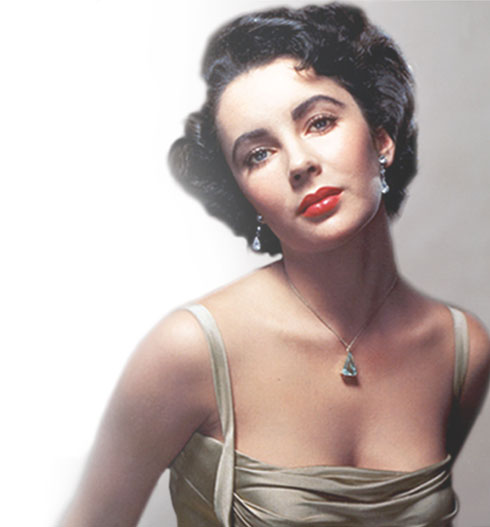
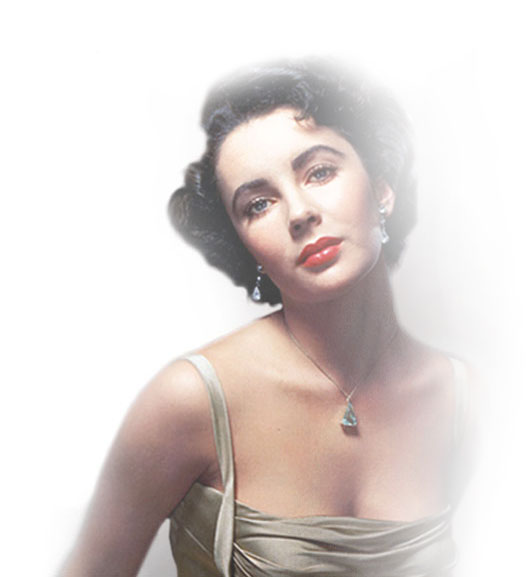
Added link to Twitter page. Altered follow section. Changed Liz's image.

diff --git a/sab/templates/donate.html b/sab/templates/donate.html
@@ -54,8 +54,11 @@
 <div id="rightside">
   <div class="sabpanel">
     <h2>Since they're going to show up anyway, we hope they stay as long as possible.</h2>
-    <p>For every hour WBC spends protesting, more money is going to a great foundation! During the service, we'll be sending out live tweets with the amount of money they've raised.</p>
-    <iframe src="http://www.facebook.com/plugins/likebox.php?href=http%3A%2F%2Fwww.facebook.com%2Fpages%2FSponsor-a-Bigot%2F207247549290642&amp;width=292&amp;colorscheme=light&amp;show_faces=false&amp;stream=false&amp;header=true&amp;height=62" scrolling="no" frameborder="0" style="border:none; overflow:hidden; width:292px; height:62px;" allowTransparency="true"></iframe>
+    <p>For every hour WBC spends protesting, more money is going to a great foundation! During the service, we'll be sending out live updates with the amount of money they've raised.</p>
+    <a id="tw-follow" href="http://twitter.com/sponsorabigot" target="twitter"><span>Twitter</span></a>
+    <div id="fb-follow">
+      <iframe src="http://www.facebook.com/plugins/likebox.php?href=http%3A%2F%2Fwww.facebook.com%2Fpages%2FSponsor-a-Bigot%2F207247549290642&amp;width=190&amp;colorscheme=light&amp;show_faces=false&amp;stream=false&amp;header=true&amp;height=62" scrolling="no" frameborder="0" style="border:none; overflow:hidden; width:190px; height:62px;" allowTransparency="true"></iframe>
+    </div>
   </div>
 </div>
 {% endblock %}

diff --git a/sab/templates/_share.html b/sab/templates/_share.html
@@ -1,4 +1,4 @@
 <p>Think this is awesome? We agree! Please tell others.</p>
-<a class="share fb" href="javascript:void();"><span>Share on Facebook</span></a>
-<a class="share twitter" href="javascript:void();"><span>Share on Twitter</span></a>
+<a class="share fb" id="fb-sharedonation" href="javascript:void();"><span>Share on Facebook</span></a>
+<a class="share twitter" id="tw-sharedonation" href="javascript:void();"><span>Share on Twitter</span></a>
 <div class="clear">&nbsp;</div>

diff --git a/sab/media/css/donate.css b/sab/media/css/donate.css
@@ -122,3 +122,20 @@ a.share span {
    margin-top: 30px;
 }
 
+#fb-follow {
+   width: 190px;
+}
+
+#tw-follow {
+   float: right;
+   margin-top: 10px;
+   display: block;
+   width: 200px;
+   height: 37px;
+   text-decoration: none;
+   background: url('../images/twitter_logo.png') no-repeat;
+}
+
+#tw-follow span {
+   visibility: hidden;
+}
